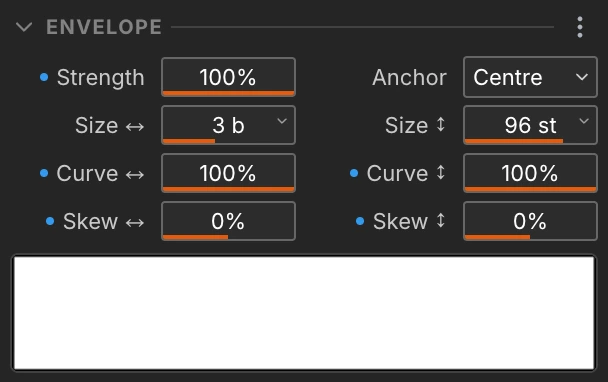
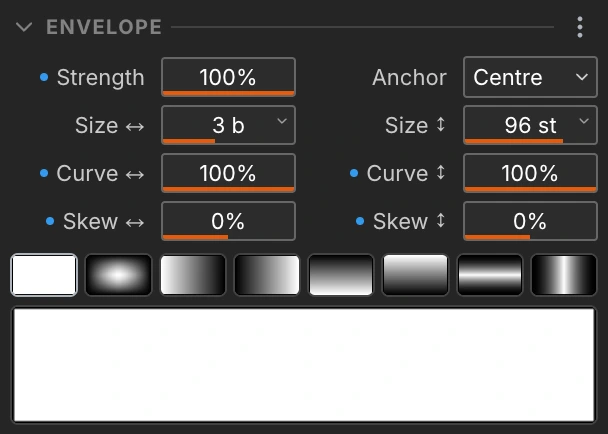
✨ (envelope): pick a brush shape from a row of tiles

Changed region(s): [[0.0, 0.0288, 1.0, 0.7199], [0.0312, 0.0288, 0.9062, 0.0864], [0.0, 0.9503, 1.0, 0.9791]]

diff --git a/src/renderer/src/lib/envelope-shapes.ts b/src/renderer/src/lib/envelope-shapes.ts
@@ -1,0 +1,100 @@
+import { brushEnvelopeShape } from "./brush-envelope";
+
+/** The parameters that define the envelope's shape, as opposed to its size or strength. */
+export const ENVELOPE_SHAPE_PARAMS = ["brushCurveTime", "brushSkewTime", "brushCurvePitch", "brushSkewPitch"] as const;
+
+export type EnvelopeShapeParam = (typeof ENVELOPE_SHAPE_PARAMS)[number];
+
+export type EnvelopeShapeValues = Record<EnvelopeShapeParam, number>;
+
+export type EnvelopeShape = {
+  /** One or two words, shown under the tile's tooltip. */
+  name: string;
+  values: EnvelopeShapeValues;
+  /**
+   * What the tile draws, for shapes that do not read at tile size: a slightly
+   * soft edge fills a 30-pixel tile with flat white, and a sharp edge thins to
+   * a sub-pixel line. The tile exaggerates the curve; the click still applies
+   * `values`.
+   */
+  preview?: EnvelopeShapeValues;
+};
+
+/** The ready-made shapes the tiles above the envelope preview apply. */
+export const ENVELOPE_SHAPES: readonly EnvelopeShape[] = [
+  {
+    name: "Box",
+    values: { brushCurveTime: 100, brushSkewTime: 0, brushCurvePitch: 100, brushSkewPitch: 0 },
+  },
+  {
+    name: "Soft",
+    values: { brushCurveTime: 70, brushSkewTime: 0, brushCurvePitch: 70, brushSkewPitch: 0 },
+    preview: { brushCurveTime: 30, brushSkewTime: 0, brushCurvePitch: 30, brushSkewPitch: 0 },
+  },
+  {
+    name: "Fade Out",
+    values: { brushCurveTime: 0, brushSkewTime: -100, brushCurvePitch: 100, brushSkewPitch: 0 },
+  },
+  {
+    name: "Fade In",
+    values: { brushCurveTime: 0, brushSkewTime: 100, brushCurvePitch: 100, brushSkewPitch: 0 },
+  },
+  {
+    name: "Fade Down",
+    values: { brushCurveTime: 100, brushSkewTime: 0, brushCurvePitch: 0, brushSkewPitch: -100 },
+  },
+  {
+    name: "Fade Up",
+    values: { brushCurveTime: 100, brushSkewTime: 0, brushCurvePitch: 0, brushSkewPitch: 100 },
+  },
+  {
+    name: "Streak",
+    values: { brushCurveTime: 100, brushSkewTime: 0, brushCurvePitch: -80, brushSkewPitch: 0 },
+    preview: { brushCurveTime: 100, brushSkewTime: 0, brushCurvePitch: -45, brushSkewPitch: 0 },
+  },
+  {
+    name: "Hit",
+    values: { brushCurveTime: -80, brushSkewTime: 0, brushCurvePitch: 100, brushSkewPitch: 0 },
+    preview: { brushCurveTime: -45, brushSkewTime: 0, brushCurvePitch: 100, brushSkewPitch: 0 },
+  },
+];
+
+/** Paints the envelope as a greyscale field, brightest where the brush deposits most. */
+export function drawEnvelope(ctx: CanvasRenderingContext2D, values: EnvelopeShapeValues, intensity: number): void {
+  const w = ctx.canvas.width;
+  const h = ctx.canvas.height;
+  const img = ctx.createImageData(w, h);
+  const data = img.data;
+
+  const curveX = values.brushCurveTime / 100;
+  const skewX = (values.brushSkewTime + 100) / 200;
+  const curveY = values.brushCurvePitch / 100;
+  const skewY = (values.brushSkewPitch + 100) / 200;
+
+  const xProfile = new Float32Array(w);
+  for (let i = 0; i < w; i++) {
+    xProfile[i] = brushEnvelopeShape(i / (w - 1), curveX, skewX);
+  }
+  const yProfile = new Float32Array(h);
+  for (let j = 0; j < h; j++) {
+    const t = 1 - j / (h - 1);
+    yProfile[j] = brushEnvelopeShape(t, curveY, skewY);
+  }
+
+  const scale = Math.max(0, Math.min(1, intensity / 100));
+
+  for (let j = 0; j < h; j++) {
+    const yv = yProfile[j];
+    const rowOffset = j * w * 4;
+    for (let i = 0; i < w; i++) {
+      const v = Math.round(xProfile[i] * yv * scale * 255);
+      const k = rowOffset + i * 4;
+      data[k] = v;
+      data[k + 1] = v;
+      data[k + 2] = v;
+      data[k + 3] = 255;
+    }
+  }
+
+  ctx.putImageData(img, 0, 0);
+}

diff --git a/src/renderer/src/components/controls/envelope-shape-tiles.tsx b/src/renderer/src/components/controls/envelope-shape-tiles.tsx
@@ -1,0 +1,92 @@
+import { Group, UnstyledButton } from "@mantine/core";
+import {
+  ENVELOPE_SHAPES,
+  ENVELOPE_SHAPE_PARAMS,
+  drawEnvelope,
+  type EnvelopeShape,
+  type EnvelopeShapeValues,
+} from "@renderer/lib/envelope-shapes";
+import { helpProps } from "@renderer/lib/ui-controls";
+import { selectParameter, useStore } from "@renderer/store";
+import { useEffect, useRef } from "react";
+import { Tooltip } from "../tooltip";
+
+const TILE_HEIGHT = 22;
+const TILE_RES_X = 64;
+const TILE_RES_Y = 44;
+
+const ShapeThumbnail = ({ values }: { values: EnvelopeShapeValues }) => {
+  const canvasRef = useRef<HTMLCanvasElement | null>(null);
+
+  useEffect(() => {
+    const ctx = canvasRef.current?.getContext("2d");
+    if (ctx) drawEnvelope(ctx, values, 100);
+  }, [values]);
+
+  return (
+    <canvas
+      ref={canvasRef}
+      width={TILE_RES_X}
+      height={TILE_RES_Y}
+      style={{ display: "block", width: "100%", height: "100%" }}
+    />
+  );
+};
+
+/** Sets Curve and Skew on both axes from one click, so a shape is a tile rather than four drags. */
+export const EnvelopeShapeTiles = () => {
+  const curveTime = useStore(selectParameter("brushCurveTime")) as number;
+  const skewTime = useStore(selectParameter("brushSkewTime")) as number;
+  const curvePitch = useStore(selectParameter("brushCurvePitch")) as number;
+  const skewPitch = useStore(selectParameter("brushSkewPitch")) as number;
+
+  const current: EnvelopeShapeValues = {
+    brushCurveTime: curveTime,
+    brushSkewTime: skewTime,
+    brushCurvePitch: curvePitch,
+    brushSkewPitch: skewPitch,
+  };
+
+  const apply = (shape: EnvelopeShape) => {
+    const setParameter = useStore.getState().setParameter;
+    for (const key of ENVELOPE_SHAPE_PARAMS) {
+      setParameter(key, shape.values[key]);
+    }
+  };
+
+  return (
+    <Group gap={3} wrap="nowrap">
+      {ENVELOPE_SHAPES.map((shape) => {
+        const active = ENVELOPE_SHAPE_PARAMS.every((key) => current[key] === shape.values[key]);
+        return (
+          <Tooltip key={shape.name} help="envelope-shape" detail={shape.name}>
+            <UnstyledButton
+              {...helpProps("envelope-shape")}
+              onClick={() => apply(shape)}
+              style={{
+                flex: "1 1 0",
+                minWidth: 0,
+                height: TILE_HEIGHT,
+                borderRadius: 4,
+                overflow: "hidden",
+                background: "#000",
+                border: `1px solid ${active ? "var(--mantine-color-gray-5)" : "var(--mantine-color-dark-4)"}`,
+                transition: "border-color 100ms ease",
+              }}
+              onMouseEnter={(e) => {
+                e.currentTarget.style.borderColor = "var(--mantine-color-gray-5)";
+              }}
+              onMouseLeave={(e) => {
+                e.currentTarget.style.borderColor = active
+                  ? "var(--mantine-color-gray-5)"
+                  : "var(--mantine-color-dark-4)";
+              }}
+            >
+              <ShapeThumbnail values={shape.preview ?? shape.values} />
+            </UnstyledButton>
+          </Tooltip>
+        );
+      })}
+    </Group>
+  );
+};

diff --git a/src/renderer/src/lib/__tests__/envelope-shapes.test.ts b/src/renderer/src/lib/__tests__/envelope-shapes.test.ts
@@ -1,0 +1,63 @@
+import { describe, expect, it, vi } from "vitest";
+
+// parameters.ts sits in a cycle with the store; nothing here needs the store.
+vi.mock("@renderer/store", () => ({ useStore: { getState: vi.fn() } }));
+
+import { getNumberParameterDef } from "../../parameters";
+import { ENVELOPE_SHAPES, ENVELOPE_SHAPE_PARAMS, drawEnvelope, type EnvelopeShapeValues } from "../envelope-shapes";
+
+const WIDTH = 64;
+const HEIGHT = 44;
+
+/** The tile's own pixels: the field a user picks the shape by. */
+function renderTile(values: EnvelopeShapeValues): Uint8ClampedArray {
+  const canvas = document.createElement("canvas");
+  canvas.width = WIDTH;
+  canvas.height = HEIGHT;
+  const ctx = canvas.getContext("2d");
+  if (!ctx) throw new Error("no 2d context");
+  drawEnvelope(ctx, values, 100);
+  return ctx.getImageData(0, 0, WIDTH, HEIGHT).data;
+}
+
+describe("envelope shapes", () => {
+  it("only sets values the parameters accept", () => {
+    const outOfRange: string[] = [];
+    for (const shape of ENVELOPE_SHAPES) {
+      for (const key of ENVELOPE_SHAPE_PARAMS) {
+        const def = getNumberParameterDef(key);
+        for (const value of [shape.values[key], shape.preview?.[key]]) {
+          if (value === undefined) continue;
+          if (value < def.min || value > def.max) outOfRange.push(`${shape.name}.${key} = ${value}`);
+        }
+      }
+    }
+    expect(outOfRange).toEqual([]);
+  });
+
+  it("names each shape once", () => {
+    const names = ENVELOPE_SHAPES.map((shape) => shape.name);
+    expect(new Set(names).size).toBe(names.length);
+  });
+
+  it("draws a different envelope for every tile", () => {
+    const tiles = ENVELOPE_SHAPES.map((shape) => ({
+      name: shape.name,
+      pixels: renderTile(shape.preview ?? shape.values),
+    }));
+    const alike: string[] = [];
+
+    for (let a = 0; a < tiles.length; a++) {
+      for (let b = a + 1; b < tiles.length; b++) {
+        let differing = 0;
+        for (let i = 0; i < tiles[a].pixels.length; i += 4) {
+          if (Math.abs(tiles[a].pixels[i] - tiles[b].pixels[i]) > 8) differing++;
+        }
+        const fraction = differing / (WIDTH * HEIGHT);
+        if (fraction < 0.05) alike.push(`${tiles[a].name} / ${tiles[b].name} (${Math.round(fraction * 100)}%)`);
+      }
+    }
+
+    expect(alike, "these tiles are too close to tell apart").toEqual([]);
+  });
+});

diff --git a/src/renderer/src/components/controls/envelope-visualizer.tsx b/src/renderer/src/components/controls/envelope-visualizer.tsx
@@ -1,6 +1,6 @@
 import { Box } from "@mantine/core";
 import { selectParameter, useStore } from "@renderer/store";
-import { brushEnvelopeShape } from "@renderer/lib/brush-envelope";
+import { drawEnvelope } from "@renderer/lib/envelope-shapes";
 import { useEffect, useRef } from "react";
 
 interface EnvelopeVisualizerProps {
@@ -24,42 +24,16 @@ export const EnvelopeVisualizer = ({ height = 80 }: EnvelopeVisualizerProps) => 
     const ctx = canvas.getContext("2d");
     if (!ctx) return;
 
-    const w = canvas.width;
-    const h = canvas.height;
-    const img = ctx.createImageData(w, h);
-    const data = img.data;
-
-    const curveX = curveTime / 100;
-    const skewX = (skewTime + 100) / 200;
-    const curveY = curvePitch / 100;
-    const skewY = (skewPitch + 100) / 200;
-
-    const xProfile = new Float32Array(w);
-    for (let i = 0; i < w; i++) {
-      xProfile[i] = brushEnvelopeShape(i / (w - 1), curveX, skewX);
-    }
-    const yProfile = new Float32Array(h);
-    for (let j = 0; j < h; j++) {
-      const t = 1 - j / (h - 1);
-      yProfile[j] = brushEnvelopeShape(t, curveY, skewY);
-    }
-
-    const scale = Math.max(0, Math.min(1, intensity / 100));
-
-    for (let j = 0; j < h; j++) {
-      const yv = yProfile[j];
-      const rowOffset = j * w * 4;
-      for (let i = 0; i < w; i++) {
-        const v = Math.round(xProfile[i] * yv * scale * 255);
-        const k = rowOffset + i * 4;
-        data[k] = v;
-        data[k + 1] = v;
-        data[k + 2] = v;
-        data[k + 3] = 255;
-      }
-    }
-
-    ctx.putImageData(img, 0, 0);
+    drawEnvelope(
+      ctx,
+      {
+        brushCurveTime: curveTime,
+        brushSkewTime: skewTime,
+        brushCurvePitch: curvePitch,
+        brushSkewPitch: skewPitch,
+      },
+      intensity,
+    );
   }, [curveTime, skewTime, curvePitch, skewPitch, intensity]);
 
   return (

diff --git a/src/renderer/src/components/controls/envelope-control.tsx b/src/renderer/src/components/controls/envelope-control.tsx
@@ -1,5 +1,6 @@
 import { SimpleGrid, Stack } from "@mantine/core";
 import { PANEL_COLUMN_SPACING } from "@renderer/lib/ui-density";
+import { EnvelopeShapeTiles } from "./envelope-shape-tiles";
 import { EnvelopeVisualizer } from "./envelope-visualizer";
 import { ParameterControl } from "./parameter-control";
 
@@ -16,6 +17,7 @@ export const EnvelopeControl = () => {
         <ParameterControl paramKey="brushSkewTime" />
         <ParameterControl paramKey="brushSkewPitch" />
       </SimpleGrid>
+      <EnvelopeShapeTiles />
       <EnvelopeVisualizer height={60} />
     </Stack>
   );

diff --git a/src/renderer/src/lib/ui-controls.ts b/src/renderer/src/lib/ui-controls.ts
@@ -280,6 +280,13 @@ export const UI_CONTROLS = {
     manualSection: "steps",
   },
 
+  // Envelope
+  "envelope-shape": {
+    label: "Envelope Shape",
+    description: "Sets Curve and Skew on both axes to a ready-made envelope shape.",
+    manualSection: "envelope",
+  },
+
   // Randomization
   "randomize-dice": {
     label: "Randomise",

diff --git a/docs/manual.md b/docs/manual.md
@@ -288,6 +288,7 @@ The brush envelope decides where the stroke deposits energy and how much.
 - **Size ↔ (beats) / Size ↕ (semitones)** – the size of the brush. At the minimum, **Grid**, the brush tracks the current grid spacing. At the maximum, **Full**, it fills the whole file in that axis and anchors to the edge.
 - **Curve ↔ / ↕** – the shape of the envelope in each axis. −100% is a sharp spike, 0% a linear triangle, +100% a hard rectangle.
 - **Skew ↔ / ↕** – where the envelope peak sits. In time, −100% is an early pluck, 0% is centred, +100% is a delayed hit. In pitch, −100% is the bottom and +100% the top. Contextual Time or Pitch modulation flattens the envelope rather than moving its peak.
+- **Shapes** – a row of tiles under the controls, each setting Curve ↔ / ↕ and Skew ↔ / ↕ in one click: a hard box, softened edges, a fade in or out in either axis, a streak and a hit.
 
 **Hints**
 
